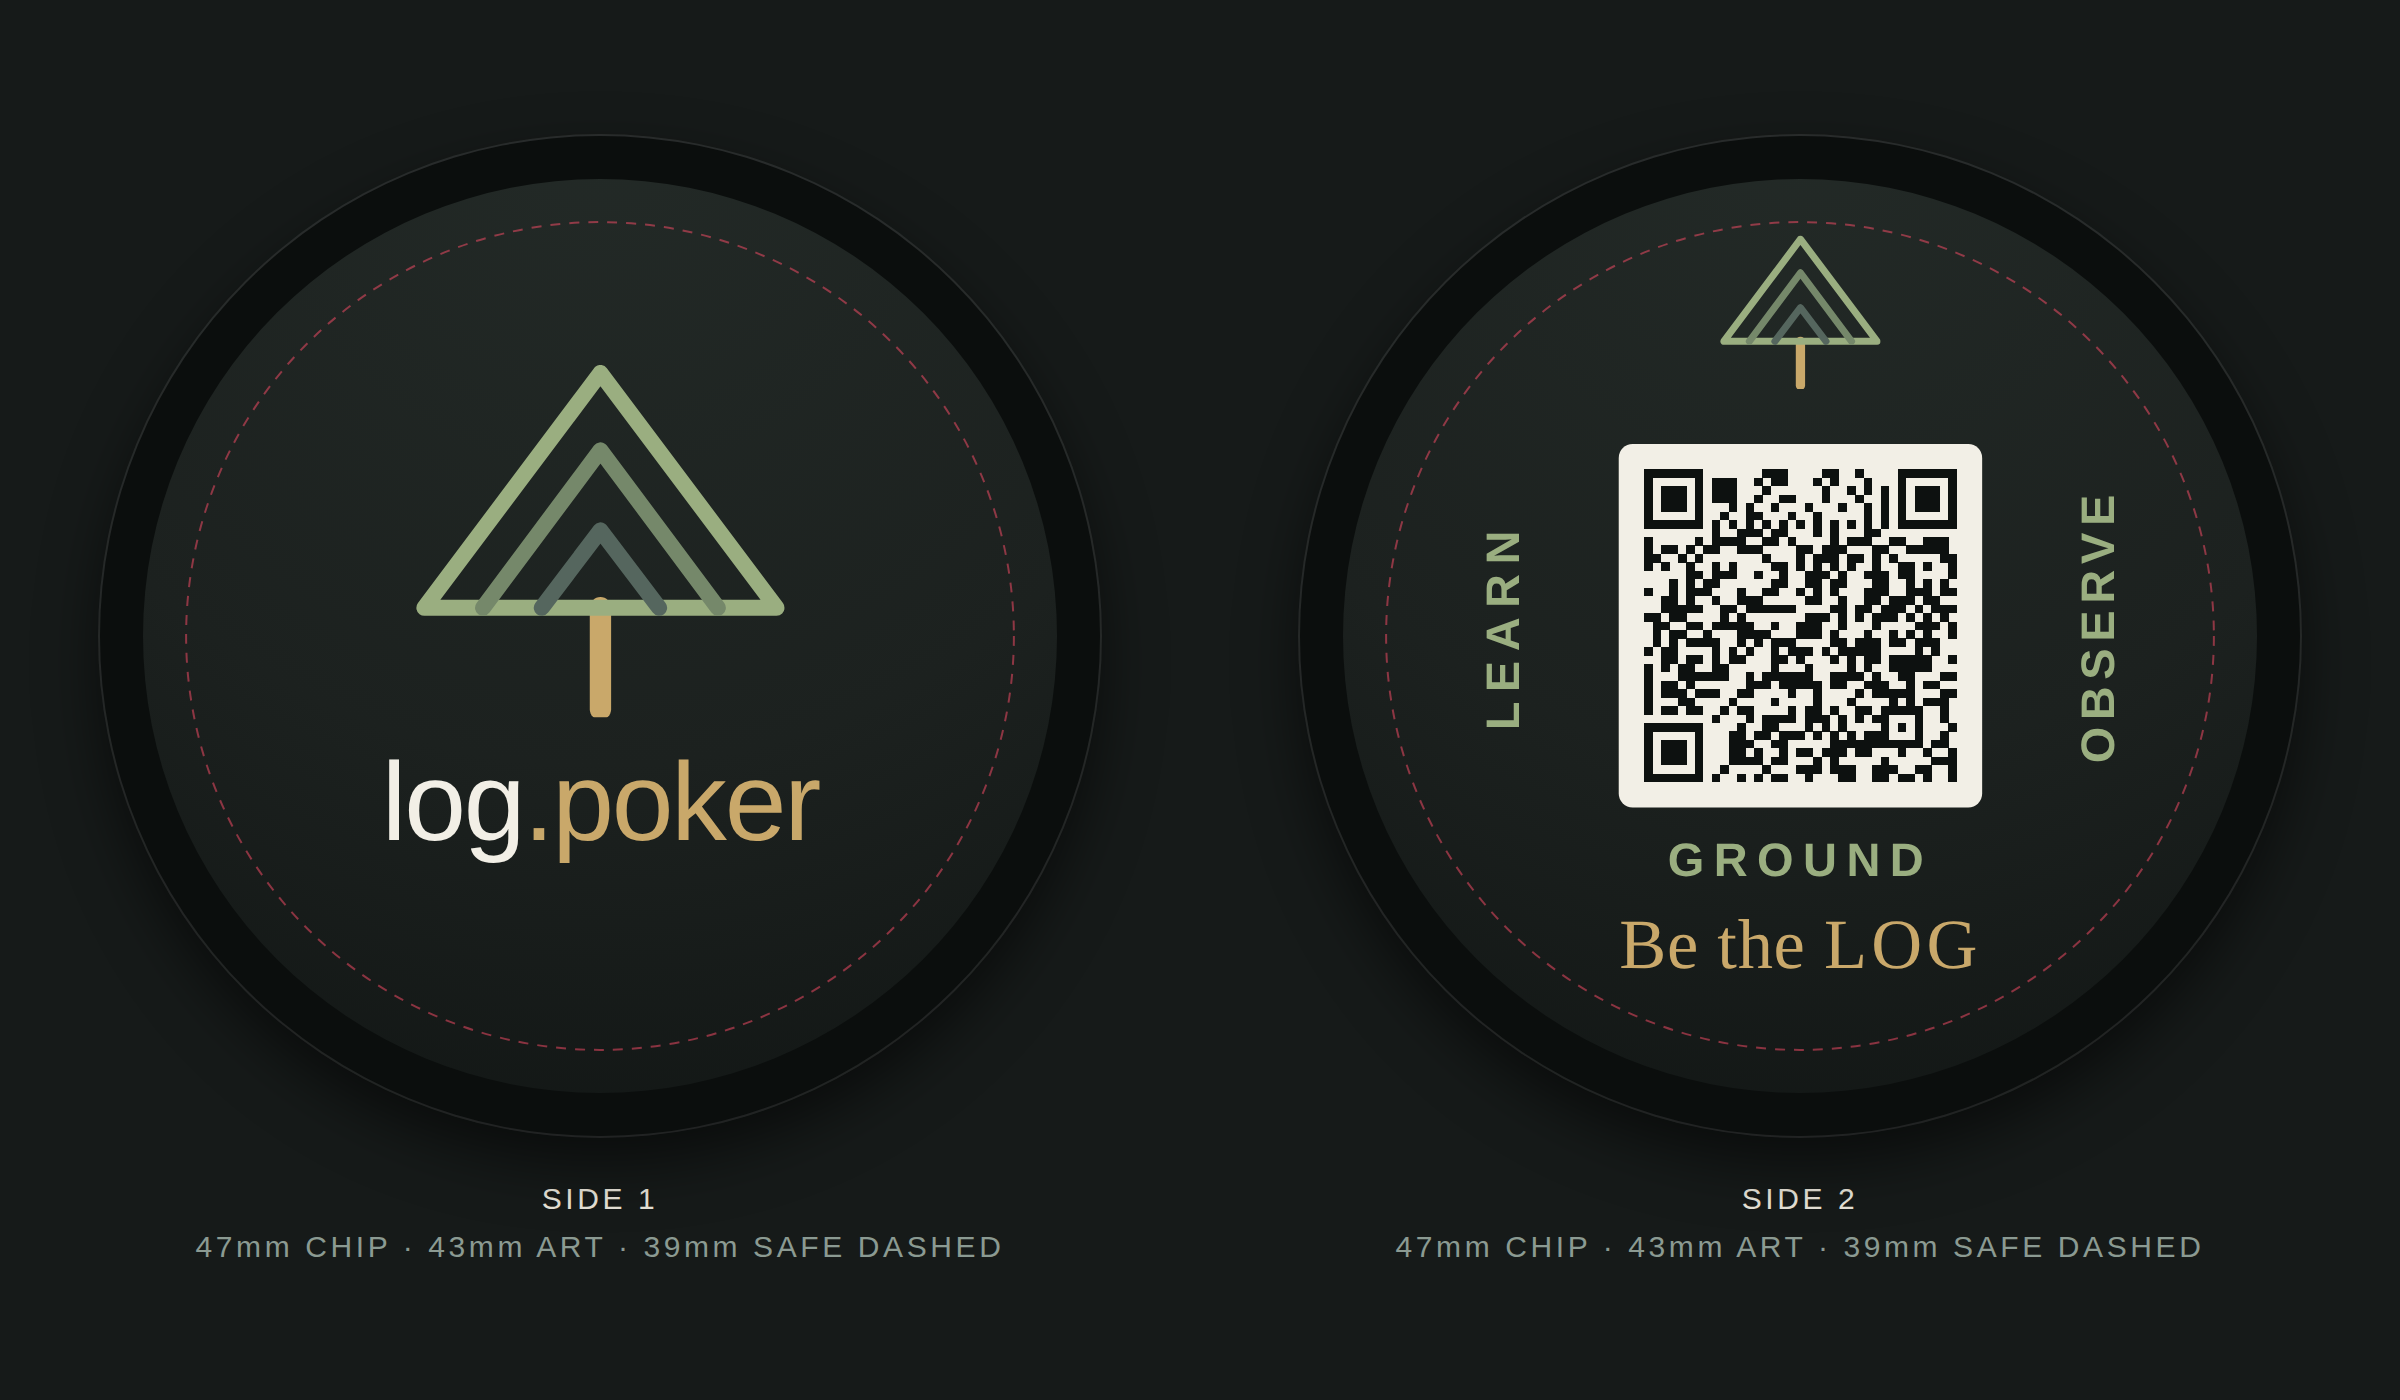
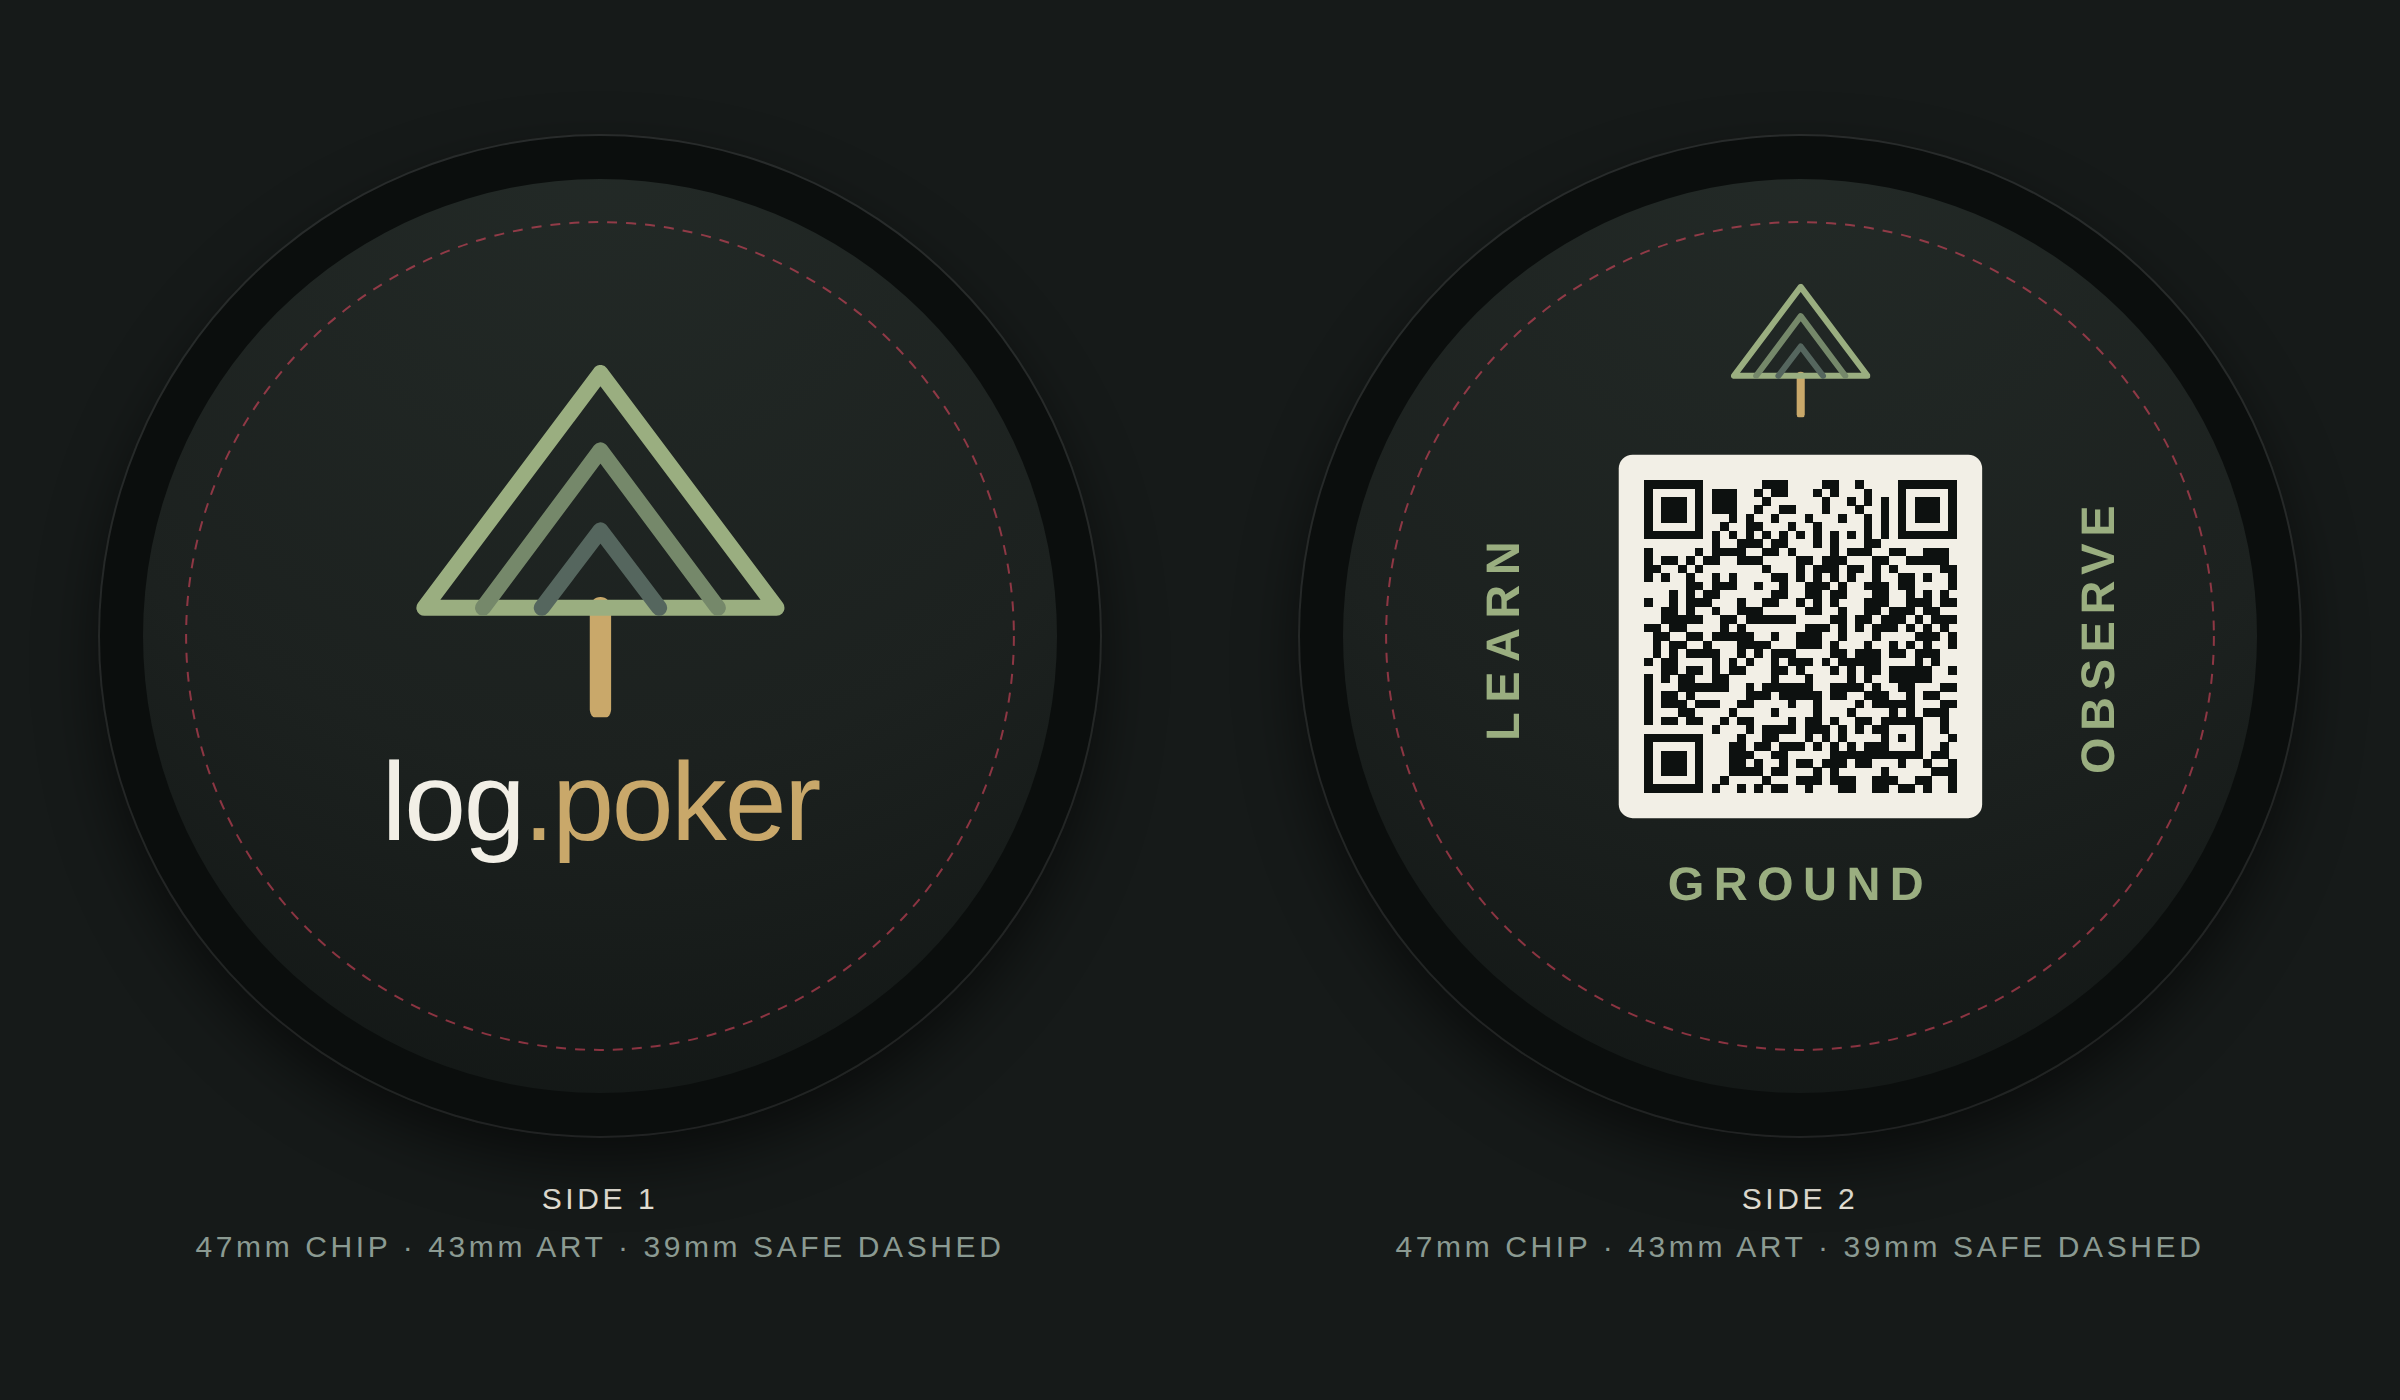
Take Be the LOG off the chip
The face was carrying the one element on the disc that explained the object to
itself. Three verbs around a code, and a domain on the other side, is an object
somebody turns over and works out; a line under them naming the acronym they
already spell is the same object telling you it is clever.

So the line goes, and the room it used goes to the code taking the exact middle
of the disc and to the verbs standing clear of each other. The mark comes down
a size to keep the weight above the code from outrunning the single word below
it, which is what optical centering on a disc actually wants: the heavier
element gets the smaller margin.

What is lost is that the back no longer names the acronym it spells. It still
spells it, and side 1 still says log.poker, so the object carries both halves
and leaves the reader to put them together. On a thing handed across a table
that is the better trade.

BRAND.md had a whole section arguing which of two lines should take that slot,
and the answer turned out to be neither, so the section says that now rather
than being quietly deleted: the reasoning about reading order is still why
LEARN, OBSERVE and GROUND sit where they do, and the OBSERVE and GROUND swap
still stands.

Both rendered faces still decode to the campaign URL, and the module size is
unchanged at 0.43mm: nothing about the code moved. 733 tests, typecheck, lint
and the prose check clean.

Claude-Session: https://claude.ai/code/session_01JHZ7jsmGP2S3Ku6WDcvSbn

diff --git a/design/chip/side-2.html b/design/chip/side-2.html
@@ -13,8 +13,14 @@
      ## The reading order is the whole layout
 
      LEARN on the left, OBSERVE on the right, GROUND underneath. Left, right,
-     down spells L-O-G, and `Be the LOG` sits under them pointing at it, so the
-     face expands its own acronym for somebody who has never seen it.
+     down spells L-O-G, and side 1 says log.poker, so the two faces give the
+     acronym and its expansion between them without either one explaining it.
+
+     A `Be the LOG` line sat under the three words and has been taken out. It
+     was the only thing on the disc doing the pointing out loud, and the object
+     reads better without it: three words around a code, and a domain on the
+     back of them. The room it used went to the code taking the exact middle of
+     the disc and to the verbs standing clear of each other.
 
      An earlier arrangement put GROUND on the right and OBSERVE at the bottom
      and spelled L-G-O, which was cosmetic until the gold line went mixed case
@@ -43,9 +49,9 @@
 
   /* The mark, small, at the top. Same ink-cropped viewBox as side 1. */
   .mark {
-    top: 250px;
-    width: 300px;
-    height: 287px;
+    top: 340px;
+    width: 261px;
+    height: 250px;
   }
 
   /* The code, on a cream tile.
@@ -57,7 +63,7 @@
      and the type rather than the other way round: everything else on this face
      can lose a millimeter and still read. */
   .qr {
-    top: 640px;
+    top: 660px;
     width: 680px;
     height: 680px;
     background: var(--cream);
@@ -85,7 +91,7 @@
   /* Centered on the tile rather than on the disc, so the pair reads as a
      caption to the code rather than as a band across the whole face. */
   .verb.side {
-    top: 980px;
+    top: 1000px;
     transform-origin: center;
   }
   .verb.learn {
@@ -102,29 +108,10 @@
   }
 
   .verb.ground {
-    top: 1375px;
+    top: 1420px;
     left: 50%;
     transform: translateX(-50%);
   }
-
-  /* The line the three words are an expansion of. Gold, and the loudest thing
-     on the face after the code, at about 1.9mm of cap. */
-  .lockup {
-    top: 1510px;
-    left: 50%;
-    transform: translateX(-50%);
-    font-family: var(--serif);
-    font-weight: 400;
-    font-size: 132px;
-    line-height: 1;
-    letter-spacing: 0.01em;
-    color: var(--gold);
-    white-space: nowrap;
-  }
-
-  /* LOG picks up the three words set around the code, so it is the only part
-     of the line in capitals. */
-  .lockup .caps { letter-spacing: 0.06em; }
 </style>
 
 <div class="face">
@@ -143,8 +130,6 @@
   <div class="verb side learn">LEARN</div>
   <div class="verb side observe">OBSERVE</div>
   <div class="verb ground">GROUND</div>
-
-  <div class="lockup">Be the <span class="caps">LOG</span></div>
 </div>
 
 <script>

diff --git a/design/chip/side-1.html b/design/chip/side-1.html
@@ -18,10 +18,10 @@
      names them, so it lights none. That is also what keeps the object from
      reading as Log-the-app's merchandise when it is the family's front door.
 
-     The domain is set at full size here because the back gave its wordmark
-     slot to `Be the LOG`: the QR two millimeters above that line says where to
-     go better than any typed URL, but an object with no name on either face is
-     anonymous once it is off the table. -->
+     The domain is set at full size here because the back carries no wordmark
+     at all. The code there says where to go better than any typed URL does,
+     but an object with no name on either face is anonymous once it is off the
+     table, so the name lives on this one. -->
 
 <link rel="stylesheet" href="face.css">
 <script src="face.js"></script>

diff --git a/BRAND.md b/BRAND.md
@@ -244,11 +244,12 @@ supersedes the four line adjective stack on those two surfaces, for the reason
 that stack already conceded: three imperatives is dilute where one is sharp, and
 this is one.
 
-**And it changes the chip.** LEARN, OBSERVE and GROUND are already set in
-capitals around the QR on the back, so a line reading *Be the LOG* in mixed case
-turns those three words into its own expansion. The object teaches the acronym
-without printing it twice, and mixed case is the more legible setting at 1.9mm
-besides.
+**And it very nearly changed the chip.** LEARN, OBSERVE and GROUND are set in
+capitals around the QR on the back, and a mixed-case *Be the LOG* under them
+would have turned those three words into its own expansion. It was drawn that
+way and then taken out: on a disc handed to a stranger the line was the only
+element explaining the object to itself, and the face reads better with the
+three words and the code alone. See [The words on the back](#the-words-on-the-back-and-the-line-that-is-not-there).
 
 ### The eye in the sky
 
@@ -376,7 +377,7 @@ the first place.
 |---|---|
 | **Keep a log. Be the log.** | The positioning line. Five words, does the pun, and ties the product to the state so the wrong app problem disappears. Home page, App Store subtitle. |
 | **Get the log. Be the log.** | The same device as a call to action. The install prompt, and anywhere the next thing is a press rather than a thought. |
-| **Be the LOG. Learn, Observe, Ground.** | The lockup, and the primary. It carries its own key. The `/chip` landing at full size, the about page, and the back of the chip in its short form. |
+| **Be the LOG. Learn, Observe, Ground.** | The lockup, and the primary. It carries its own key. The `/chip` landing at full size and the about page. Not the chip: the disc sets the three verbs around the code and lets side 1's `log.poker` supply the rest. |
 | **Be logical. Be observant. Be grounded. Be the log.** | The faculties, for longer form copy rather than as a lockup. Demoted by the line above, which does the same job in nine words instead of thirteen and names the apps while it does it. Never the first three without the fourth. |
 | **Think in logs.** | Proportions rather than dollars. The variance view and bankroll goals only, and never the front door. |
 | **The math props it. The ground holds it. The river goes past.** | The full statement, and the only place all three apps are in one sentence. The `/chip` landing page and the about page, where there is room to land it. |
@@ -446,17 +447,23 @@ Free and worth taking: a different image on each face, text on the edge, and the
 border being optional. The per-design setup is the line item that settled one
 chip rather than two.
 
-## Where the line goes on the chip
+## The words on the back, and the line that is not there
 
-The back is already full: mark at the top, QR on a cream tile at the center,
-two words in the side channels, one under the QR, and the `log.poker` wordmark
-in gold beneath it. Something has to give.
+**Settled by taking it out.** This section argued at length about which line
+should sit under the three verbs, on the premise that the back was full and
+something had to give. What gave was the line itself: the drawn face carries the
+mark, the code and LEARN, OBSERVE, GROUND, and nothing else.
+
+The argument below is kept because the placement it settled is still the
+placement, and because the reasoning about reading order is the reason those
+three words sit where they do.
 
 **And the words were in the wrong places.** With LEARN on the left, GROUND on
 the right and OBSERVE underneath, a left, right, down scan reads *Learn,
-Ground, Observe*. That was cosmetic until the gold line went mixed case, and
-then it was a defect: **Be the LOG** points at those three words, and they were
-spelling L-G-O.
+Ground, Observe*, spelling L-G-O. That mattered more when a mixed-case
+**Be the LOG** sat under them pointing at it, and it still matters with the line
+gone: the front says `log.poker`, so the two faces give the acronym and its
+expansion between them, and they have to agree.
 
 So **OBSERVE and GROUND swap**. GROUND takes the bottom, because **the ground is
 the bottom**, which is decodable by anybody holding the chip for the first time.
@@ -477,26 +484,22 @@ would spell O-L-G, which breaks the mechanism this whole section exists to
 protect, so it loses on the one criterion that is not aesthetic. See [The eye in
 the sky](#the-eye-in-the-sky) for the part of it worth keeping.
 
-**Then give the wordmark.** `Be the LOG` takes its slot, in gold, at the same ~1.9mm
-cap height, and stays the second-loudest element after the QR. Mixed case rather
-than all capitals, so that LOG picks up the three words already set around the
-QR and the face expands its own acronym.
+**And then neither line goes there.** The wordmark's slot was given to
+`Be the LOG`, on the reasoning that the QR two millimeters above says where to
+go better than any typed URL and the front carries `log.poker` at full size
+anyway. Both halves of that were right. What the reasoning missed is that it
+argued only about which of two lines to keep, and the answer was neither.
 
-The wordmark's job on the back was to say where to go, and the QR two
-millimeters above it already does that better and more accurately: nobody types
-a URL off a card protector when there is a code right there. The front still
-carries `log.poker` at full size, so the object is not anonymous. That trade
-buys the back's most valuable line: the one that makes somebody want to scan at
-all.
+`Be the LOG` was the one thing on the disc explaining itself out loud, and an
+object that is handed to a stranger does better showing than telling: three
+words around a code, and a domain on the other face. The room it freed went to
+the code taking the exact middle of the disc and to the verbs standing clear of
+each other, which is worth more than a line nobody needed in order to scan.
 
-It fits with room. At that position the inner ring leaves about 35mm of channel,
-and `Be the LOG` letterspaced at 1.9mm cap sets to roughly 17mm. Everything on
-the face stays above the 1.5mm floor.
-
-The alternate, if the wordmark has to stay: put the line on the **front**, below
-the wordmark, at 1.6mm. It is quieter and it costs a second reading of the
-object, since the front is the face somebody sees first and the line lands
-better after the QR has been scanned.
+The one thing lost with it is that the face no longer names the acronym it
+spells. It still spells it, and side 1 still says `log.poker`, so the object
+carries both halves and asks the reader to put them together. That is a fair
+trade for a thing somebody turns over in their fingers.
 
 ---
 

diff --git a/design/chip/README.md b/design/chip/README.md
@@ -17,7 +17,7 @@ names all three apps where that one carries a domain somebody has to type.
 | | |
 |---|---|
 | `side-1.html` | the identity face: the family mark over `log.poker` |
-| `side-2.html` | the ask face: the mark, the code, the three verbs, `Be the LOG` |
+| `side-2.html` | the ask face: the mark, the code, and the three verbs |
 | `proof.html` | both faces on a drawn chip with the safe circle dashed over them, for looking at and never for sending |
 | `face.css` | the ground, the palette and the artboard geometry |
 | `face.js` | reads `?mm=` and scales the drawing to that art diameter |
@@ -65,9 +65,14 @@ scuff the way a sticker does. The bigger module wins.
 ## What the faces say, and why in that order
 
 The back reads **LEARN** on the left, **OBSERVE** on the right, **GROUND**
-underneath, with `Be the LOG` under all three. Left, right, down spells L-O-G
-and the gold line points at it, so the face expands its own acronym for
-somebody who has never seen it.
+underneath. Left, right, down spells L-O-G, and side 1 says `log.poker`, so the
+two faces carry the acronym and its expansion between them without either one
+explaining it.
+
+A `Be the LOG` line sat under the three words and was taken out. It was the
+only element on the disc explaining the object to itself, and a thing handed to
+a stranger does better showing than telling. The room went to the code taking
+the exact middle of the disc and to the verbs standing clear of each other.
 
 An earlier arrangement put GROUND on the right and OBSERVE at the bottom and
 spelled L-G-O. That was cosmetic until the gold line went mixed case and then
@@ -75,10 +80,9 @@ it was a defect. GROUND takes the bottom because **the ground is the bottom**,
 which decodes for anybody meeting the object cold; OBSERVE under the code only
 decoded for somebody who already knew that Observe meant Log.
 
-The back gave up its wordmark to make room. The code two millimeters above that
-line says where to go better than a typed URL does, and the front carries
-`log.poker` at full size, so the object is not anonymous once it is off the
-table.
+The back carries no wordmark of its own. The code says where to go better than a
+typed URL does, and the front carries `log.poker` at full size, so the object is
+not anonymous once it is off the table.
 
 **The mark lights no ring.** An app icon turns exactly one canopy ring gold;
 this disc stands for all three apps, so it lights none. That is also what stops
